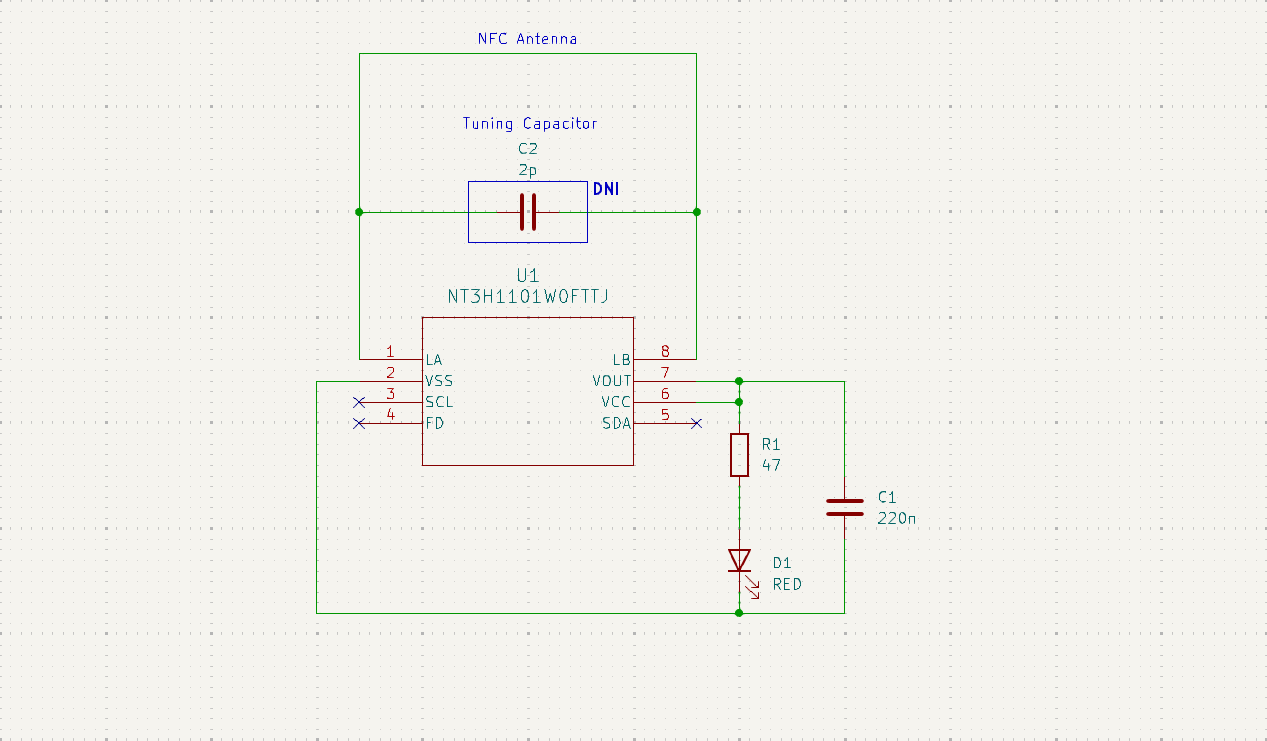
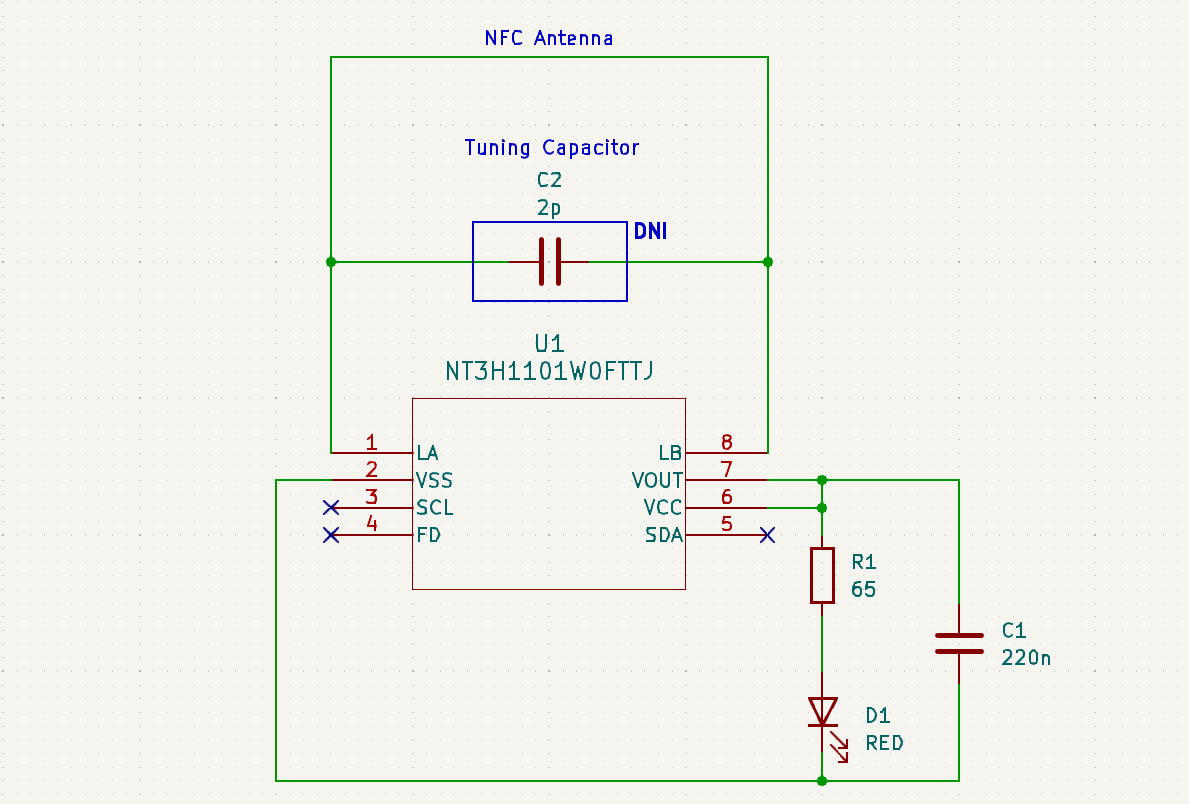
Circuit Response
* Network analyzer graph
* Spectrum analyzer graph

diff --git a/README.md b/README.md
@@ -176,8 +176,7 @@ For the final design of the antenna I ended up settling on the following paramet
     * *Without Tuning Capacitor*
 
 For the schematic, I borrowed the idea of an LED indicator for the energy harvesting circuit from the [PCB Business Card With NFC](https://www.instructables.com/PCB-Business-Card-With-NFC/). The capacitor is to guarantee operation during RF communication. The resistor value was chosen to limit the current going through the LED. The value was determined by using the following equation:
-* $R\:=\:\frac{V_{CC}-V_{LED}}{I_{LED}}=\frac{3.2-2.25}{0.02}$
-* *For the final BOM I ended up going with a green LED with a forward voltage drop of 2V. This meant that the resistor value needed to be recalculated as follows:* $R\:=\:\frac{V_{CC}-V_{LED}}{I_{LED}}=\frac{3.3-2}{0.02} = 65Ω$
+* $R\:=\:\frac{V_{CC}-V_{LED}}{I_{LED}}=\frac{3.3-2}{0.02} = 65Ω$
 
 <p align="center">
     <img title="KiCad Schematic Design" alt="KiCad Schematic Design" src="./Images/Schematic_Image.png" width ="75%">
@@ -226,14 +225,28 @@ Lastly, I programed the IC through the [NFC TagWriter by NXP](https://play.googl
 <p align="center"><i>PCB in Action!</i></p>
 
 ## Characterization 🔬
-Finally, I was able to characterize the response of the circuit by using my Analog Discovery 2 - USB oscilloscope. This was achieved by using the spectrum analyzer feature and probing both ends of the antenna. 
+Finally, I wanted to characterize the response of the circuit using my Analog Discovery 2 - USB oscilloscope. In particular, I aimed to characterize and visualize the difference in responses when the circuit had and didn't have a tuning capacitor.
+
+### No Tuning Capacitor
+
+The first order of business was to utilize the network analyzer feature on the Analog Discovery 2. By attaching the wave generator on one end of the antenna and probing on the other we could sweep through various frequencies and observe the circuits response.
+
+<p align="center">
+    <img title="Network Analyzer" alt="Network Analyzer" src="./Images/Network_Analysis.png" width ="100%">
+</p>
+<p align="center"><i>Network Analyzer</i></p>
+
+The above graph describes the S11 parameter, which represents the return loss of a device, indicating how much of the input power supplied to the device reflects back to the input port. We observe that at 14 MHz, the graph dips to a gain of -44.9 dB. This indicates that at 14 MHz, the magnitude of the reflected signal is lower than the magnitude of the incident signal. This implies that the antenna is absorbing the incident energy rather than reflecting it back towards the source. This response closely matches what we simulated previously in LTspice and MATLAB. For an NFC antenna, this behavior is desirable at 13.56 MHz. We can generate a graph with a dip closer to 13.56 MHz by including the tuning capacitor!
+
 
 <p align="center">
     <img title="Spectrum Analyzer" alt="Spectrum Analyzer" src="./Images/Spectrum_Analysis.png" width ="100%">
 </p>
 <p align="center"><i>Spectrum Analyzer</i></p>
 
-Surprisingly, the dominant frequency within the signal was 13.562Hz with an amplitude of 12.37dB. This was surprising, because the board I assembled above <b>did not include the tuning capacitor</b>. Based on the previous simulations we would have expected the dominant frequency to be slightly higher. Nevertheless, we can utilize the spectrum analyzer to characterize the effect the tuning capacitor has on the circuit. 
+Lastly, during the operation of the circuit, we can utilize the spectrum analyzer to observe the magnitude of the incoming signal. Keep in mind that this circuit doesn't contain a tuning capacitor. This was achieved by probing both ends of the antenna. Once a phone was brought within operating distance, we could see that the antenna contained a signal with a magnitude of 12.37 dB at 13.56 MHz.
+
+## Tuning Capacitor Included
 
 
 # Resources
